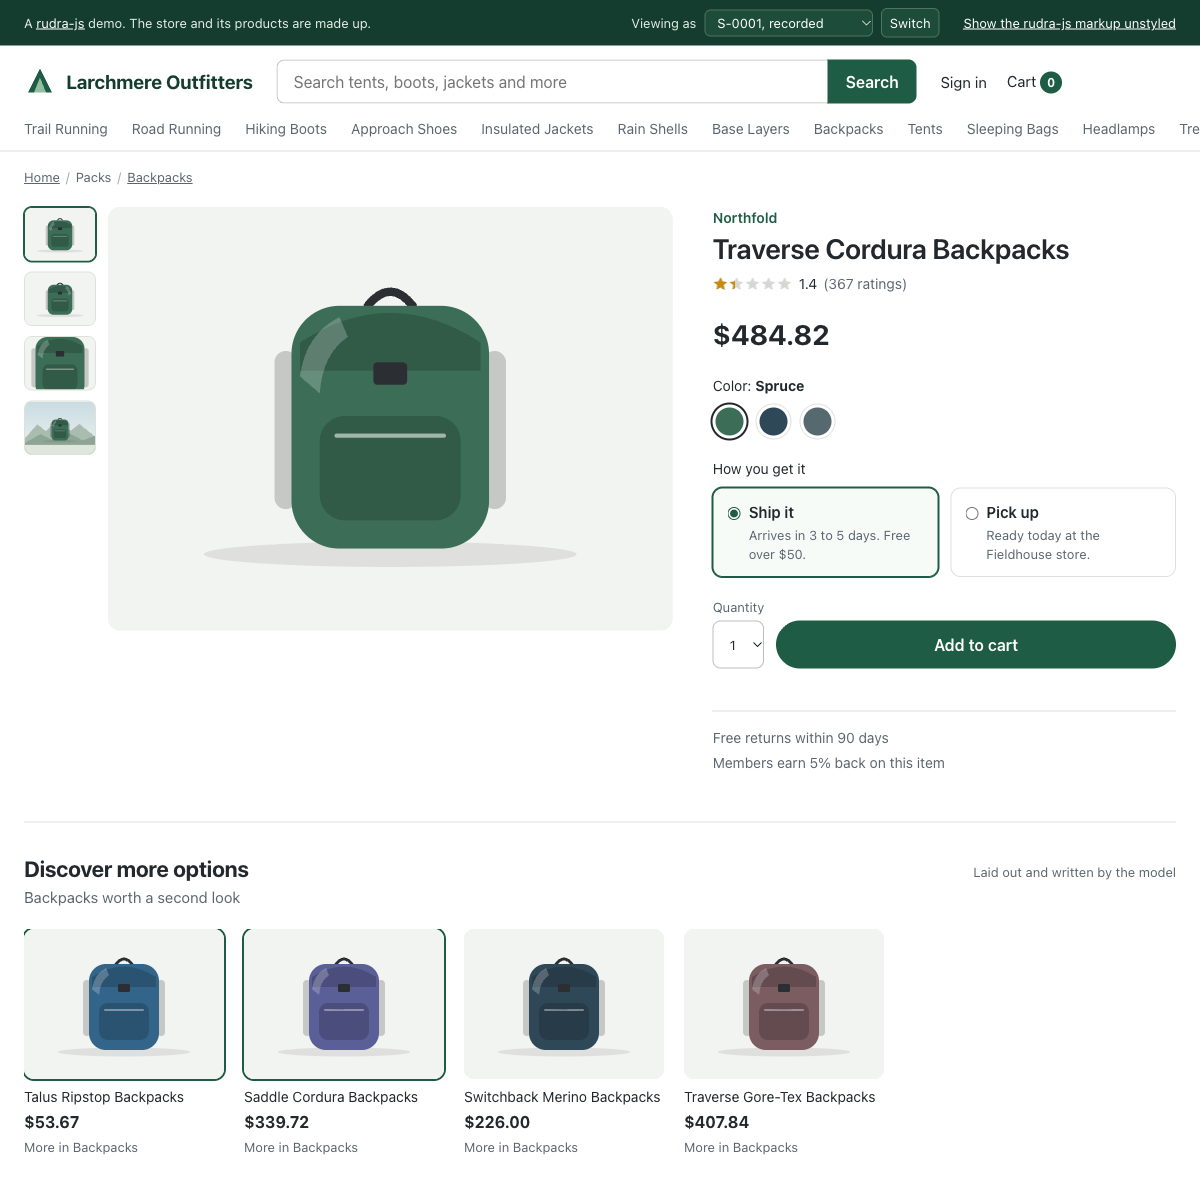
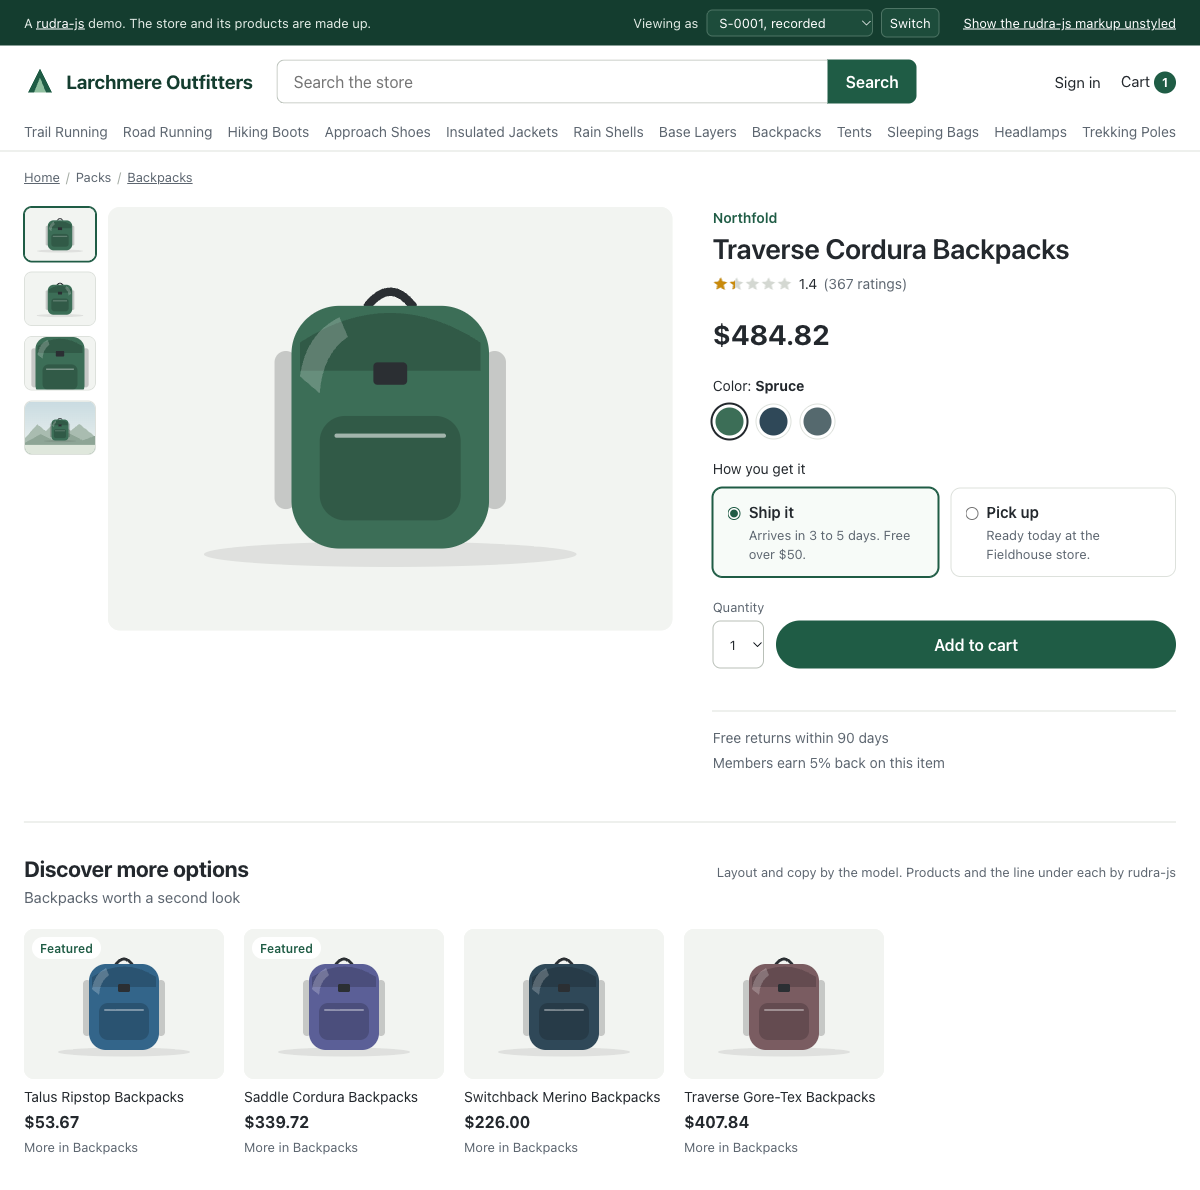
docs: retake the README screenshot of the demo page

diff --git a/README.md b/README.md
@@ -14,7 +14,7 @@ return a spec instead: a short description of the block, made up only of fields 
 picks the layout and writes the headline and copy, but there isn't a field for a price, a product
 name, an image or a link. To name a product, it will have to use a SKU from the list you give it.
 
-![The demo's product page for a made-up outdoor store, with a gallery, a buy box and the first recommendation section. In that section the line under the heading and the highlighted cards are the model's. The products, their order and the line under each are core's picks, and every title, price and image comes from the demo's catalog.](docs/demo.png)
+![The demo's product page for a made-up outdoor store, with a gallery, a buy box and the first recommendation section. In that section the line under the heading and the cards marked Featured are the model's. The products, their order and the line under each are core's picks, and every title, price and image comes from the demo's catalog.](docs/demo.png)
 
 `@rudra-js/react` will turn the spec into HTML. To do this, it will read the title, price, image and
 link of the products from your catalog as the page is served. Anything the model wrote will be
